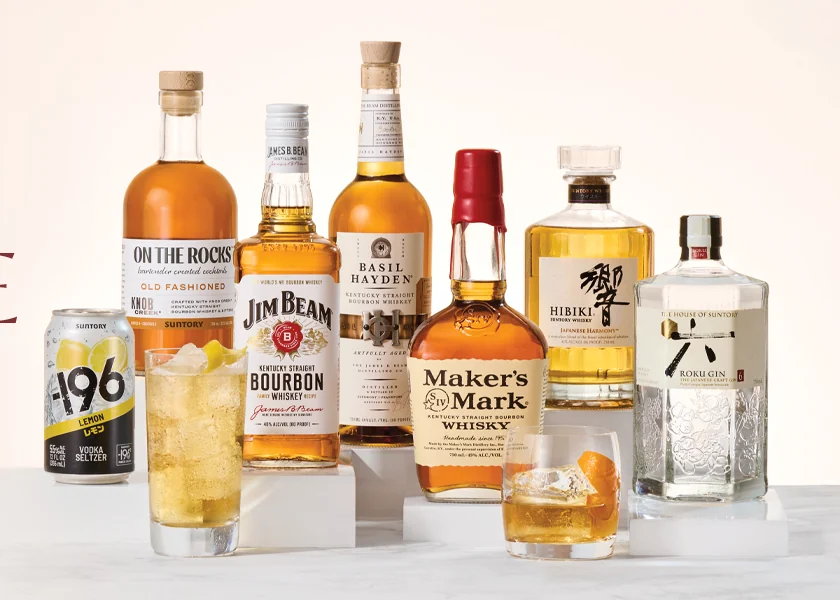
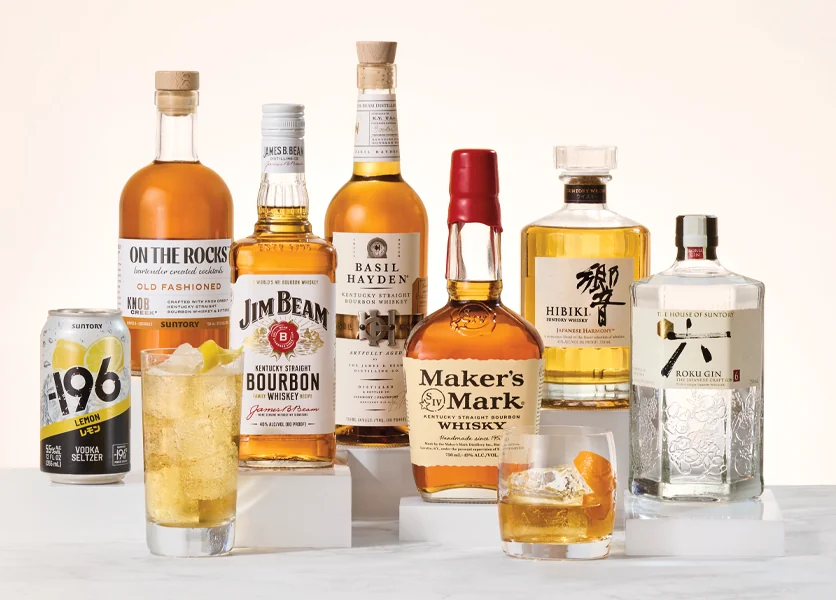
Swap in Eleni's new hero art and hi-res 6 is the New 8 photo
Hero bottle layer now comes from the title-free header file, so the
edge fade is no longer needed.

Claude-Session: https://claude.ai/code/session_01W7WsAKtG7CKUvTwXq2bVpo

diff --git a/index.html b/index.html
@@ -64,7 +64,7 @@
         <div class="hero__art">
           <picture>
             <source srcset="assets/img/hero-bottles.webp" type="image/webp">
-            <img src="assets/img/hero-bottles.jpg" width="840" height="600" fetchpriority="high"
+            <img src="assets/img/hero-bottles.jpg" width="836" height="600" fetchpriority="high"
                  alt="The Suntory Global Spirits portfolio: -196, On The Rocks, Jim Beam, Basil Hayden, Maker’s Mark, Hibiki and Roku Gin.">
           </picture>
         </div>
@@ -106,7 +106,7 @@
         <div class="row__media row__media--light wipe">
           <picture>
             <source srcset="assets/img/six-is-the-new-eight.webp" type="image/webp">
-            <img src="assets/img/six-is-the-new-eight.jpg" width="591" height="517" loading="lazy"
+            <img src="assets/img/six-is-the-new-eight.jpg" width="1232" height="1078" loading="lazy"
                  alt="A bottle of Basil Hayden bourbon beside a cocktail over ice on a sunlit stone table.">
           </picture>
           <div class="row__title row__title--top row__title--dark">

diff --git a/assets/css/style.css b/assets/css/style.css
@@ -131,8 +131,6 @@ p { margin: 0 0 1em; }
 .hero__art img {
   height: 100%; width: auto; display: block;
   mix-blend-mode: multiply;
-  -webkit-mask-image: linear-gradient(to right, transparent 0, #000 5%);
-          mask-image: linear-gradient(to right, transparent 0, #000 5%);
 }
 
 .js .hero__art { opacity: 0; }
